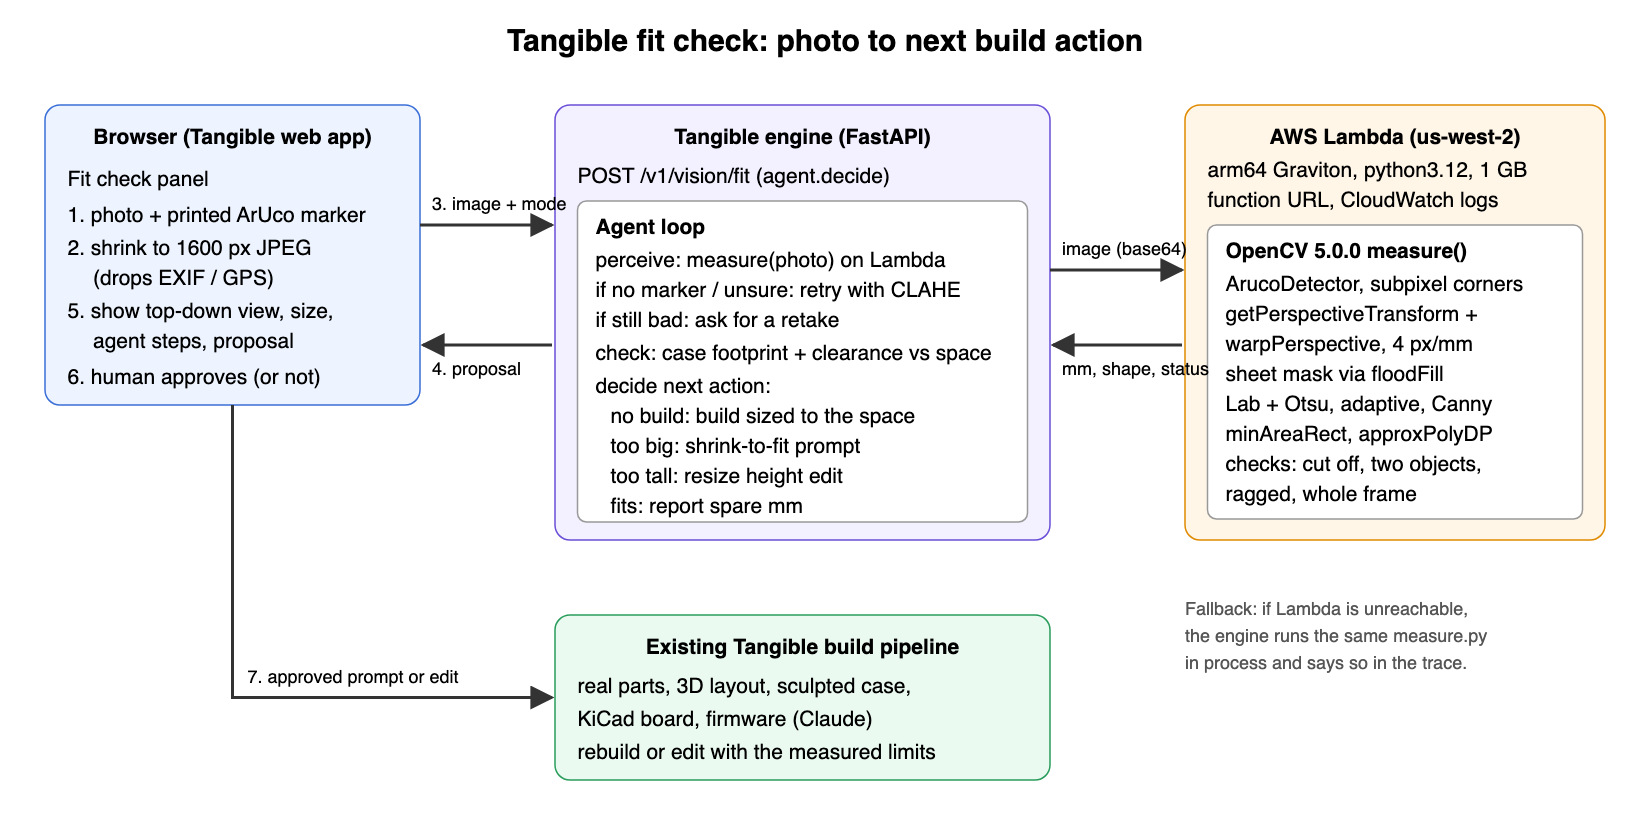
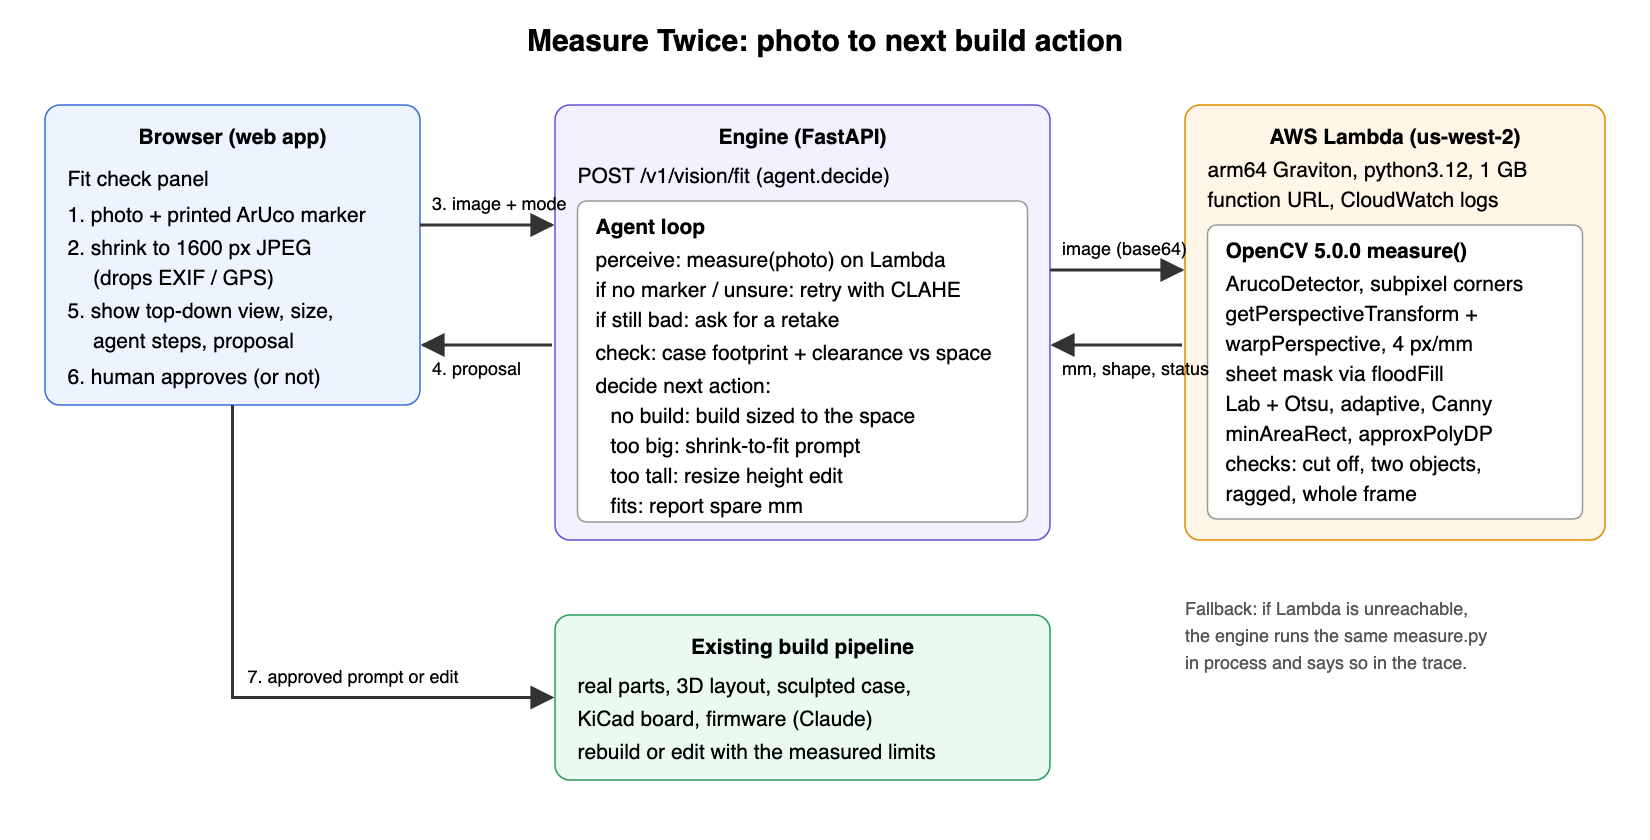
Call it Measure Twice

diff --git a/web/src/components/TopBar.tsx b/web/src/components/TopBar.tsx
@@ -42,7 +42,7 @@ export function TopBar() {
       <button type="button" className="brand" onClick={() => useApp.setState({ screen: "home" })} title="Home">
         <BaraMark className="brand-mark" />
         <span>Bara</span>
-        {screen !== "workspace" && <span className="brand-by">by Tangible Parts</span>}
+        {screen !== "workspace" && <span className="brand-by">Measure Twice</span>}
       </button>
       {screen === "home" && <LandingNav />}
       {screen === "workspace" && build && (

diff --git a/web/index.html b/web/index.html
@@ -3,7 +3,7 @@
   <head>
     <meta charset="UTF-8" />
     <meta name="viewport" content="width=device-width, initial-scale=1.0" />
-    <title>Tangible Parts</title>
+    <title>Measure Twice</title>
     <link rel="icon" href="/favicon.svg" type="image/svg+xml" />
     <link rel="icon" href="/favicon-32.png" type="image/png" sizes="32x32" />
     <link rel="icon" href="/favicon.ico" sizes="any" />

diff --git a/web/src/components/Landing.tsx b/web/src/components/Landing.tsx
@@ -329,7 +329,7 @@ function LandingFoot() {
       <span className="ld-foot-brand">
         <BaraMark className="brand-mark" />
         Bara
-        <span className="brand-by">by Tangible Parts</span>
+        <span className="brand-by">Measure Twice</span>
       </span>
       <button type="button" className="ld-foot-link" onClick={() => useApp.setState({ screen: "drafts" })}>
         Library

diff --git a/docs/hackathons/opencv26/report.md b/docs/hackathons/opencv26/report.md
@@ -1,18 +1,18 @@
-# Tangible fit check: technical report
+# Measure Twice: technical report
 
 OpenCV AI Competition 2026 (powered by AWS). Branch `opencv-aws` of https://github.com/PranavAchar01/bara.
 
-Prior work: Tangible was first shown at Cal Hacks 13.0 (Oct 24-25, 2026); the OpenCV/AWS vision feature was built for this competition. New for this competition: `server/src/bara/vision/`, `server/aws/`, `server/scripts/vision_eval.py`, `server/tests/test_vision.py`, `web/src/components/FitCheck.tsx`, `e2e/fit_check.mjs` and this folder.
+A variant of this idea was also shown at Cal Hacks.
 
 ## 1. Problem
 
-Tangible turns a sentence ("a 2x2 macropad with a volume knob") into a device built from real parts: a 3D layout, a sculpted case, a KiCad board and firmware. Until now the case size came only from the parts. People build devices for a real place: a shelf gap, a desk corner, a drawer, the footprint of an old remote. A case that is 6 mm too wide does not go in, and most people do not own calipers or know how to measure a curved outline.
+It started with an app that turns a sentence ("a 2x2 macropad with a volume knob") into a device built from real parts: a 3D layout, a sculpted case, a KiCad board and firmware. Until now the case size came only from the parts. People build devices for a real place: a shelf gap, a desk corner, a drawer, the footprint of an old remote. A case that is 6 mm too wide does not go in, and most people do not own calipers or know how to measure a curved outline.
 
 ## 2. Users
 
 - Hobbyists and makers who want a device for a specific spot.
 - People replacing an existing object (a remote, a controller) who want the new case to match its outline.
-- Anyone using Tangible on a phone, where one photo is easier than typing dimensions.
+- Anyone using the app on a phone, where one photo is easier than typing dimensions.
 
 ## 3. What it does
 
@@ -24,7 +24,7 @@ Tangible turns a sentence ("a 2x2 macropad with a volume knob") into a device bu
    - the footprint fits but a height limit is exceeded: propose a resize edit on the case height;
    - it fits: report the spare millimetres;
    - the photo is not usable (no marker, object cut off, two objects, low contrast): retry once with CLAHE contrast enhancement, then ask for a retake with a specific tip.
-4. The user sees the annotated top-down view, the size, every step the agent took, and one approve button. Nothing changes until they approve. Approving sends the prompt or edit into the existing Tangible build pipeline, and "Check again" re-runs the same photo against the new case.
+4. The user sees the annotated top-down view, the size, every step the agent took, and one approve button. Nothing changes until they approve. Approving sends the prompt or edit into the existing build pipeline, and "Check again" re-runs the same photo against the new case.
 
 What the camera sees decides the next action. Different photos produce different actions, and a bad photo produces a retake request instead of a guess.
 
@@ -34,7 +34,7 @@ What the camera sees decides the next action. Different photos produce different
 
 - Browser: the `FitCheck.tsx` panel, opened from the workspace toolbar. The photo is redrawn on a canvas to a 1600 px JPEG before upload, which also drops EXIF and GPS.
 - Engine (FastAPI): `POST /v1/vision/fit` runs `agent.decide()` in a thread pool. `GET /v1/vision/status` and `GET /v1/vision/marker.png` support the panel.
-- AWS Lambda: `tangible-fit-measure`, arm64 (Graviton), python3.12, 1024 MB, 30 s timeout, behind a function URL. It runs the same `measure.py`, which imports only `cv2` and `numpy`. Each call logs one JSON line to CloudWatch with status, timings and sizes, never the image.
+- AWS Lambda: arm64 (Graviton), python3.12, 1024 MB, 30 s timeout, behind a function URL. It runs the same `measure.py`, which imports only `cv2` and `numpy`. Each call logs one JSON line to CloudWatch with status, timings and sizes, never the image.
 - Fallback: if Lambda is unreachable the engine measures in process and the step trace says `local` with the error, so the feature keeps working.
 
 ### Agent workflow and trace

diff --git a/docs/hackathons/opencv26/devpost.md b/docs/hackathons/opencv26/devpost.md
@@ -1,17 +1,17 @@
 # Devpost entry: OpenCV AI Competition 2026
 
 ## Project name
-Tangible Fit Check
+Measure Twice
 
 ## Elevator pitch
-Snap one photo of the space your gadget has to fit. OpenCV 5 on AWS Lambda measures it, and an agent resizes the device to match.
+Snap one photo of the space your gadget has to fit. OpenCV 5 on AWS Lambda measures it, and an agent rebuilds the device and checks the fit again.
 
 ## About the project
 
-Tangible was first shown at Cal Hacks 13.0 (Oct 24-25, 2026); the OpenCV/AWS vision feature was built for this competition.
+A variant of this idea was also shown at Cal Hacks.
 
 ### Inspiration
-Tangible turns a sentence like "a 2x2 macropad with a volume knob" into a device built from real parts: a 3D layout, a case, a KiCad board and firmware. The case size always came from the parts, though, and real devices go somewhere specific: a gap on a shelf, a corner of a desk, the spot where an old remote used to sit. If the case is 6 mm too wide it doesn't fit, and most people don't own calipers.
+It started with an app that turns a sentence like "a 2x2 macropad with a volume knob" into a device built from real parts: a 3D layout, a case, a KiCad board and firmware. The case size always came from the parts, though, and real devices go somewhere specific: a gap on a shelf, a corner of a desk, the spot where an old remote used to sit. If the case is 6 mm too wide it doesn't fit, and most people don't own calipers.
 
 ### What it does
 You print a 40 mm ArUco marker, lay it next to the space, and take one photo from above. OpenCV 5 finds the marker, warps the photo to a top-down view at 4 px per mm, finds the space and measures it in millimetres.
@@ -28,7 +28,7 @@ You see the top-down view with the outline it measured, the size, and every step
 ### How we built it
 - OpenCV 5.0.0: ArucoDetector with subpixel corners, getPerspectiveTransform and warpPerspective, a floodFill mask so the marker sheet isn't counted, then three segmentation strategies in order (Lab colour distance with Otsu, adaptive threshold, Canny edges), minAreaRect and approxPolyDP for size and shape, and checks for cut-off, ragged or duplicate outlines.
 - AWS: the measurement runs on Lambda (arm64 Graviton, Python 3.12) behind a function URL, with one JSON log line per call in CloudWatch. A small deploy script builds pinned arm64 wheels and ships the 52 MB package through S3. If Lambda can't be reached, the engine runs the same code locally and the step trace says so.
-- The agent and API live in Tangible's FastAPI engine. The panel is a React component in the existing workspace, and approvals go through the same prompt and edit paths as the rest of the app.
+- The agent and API live in the app's FastAPI engine. The panel is a React component in the existing workspace, and approvals go through the same prompt and edit paths as the rest of the app.
 - The browser shrinks the photo to a 1600 px JPEG before upload, which also strips EXIF and GPS.
 
 ### Results
